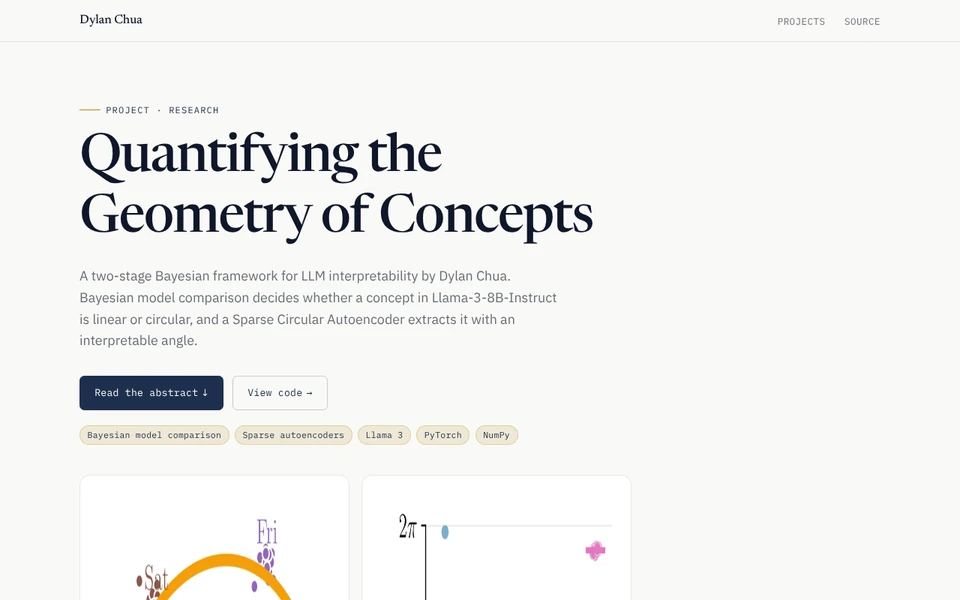
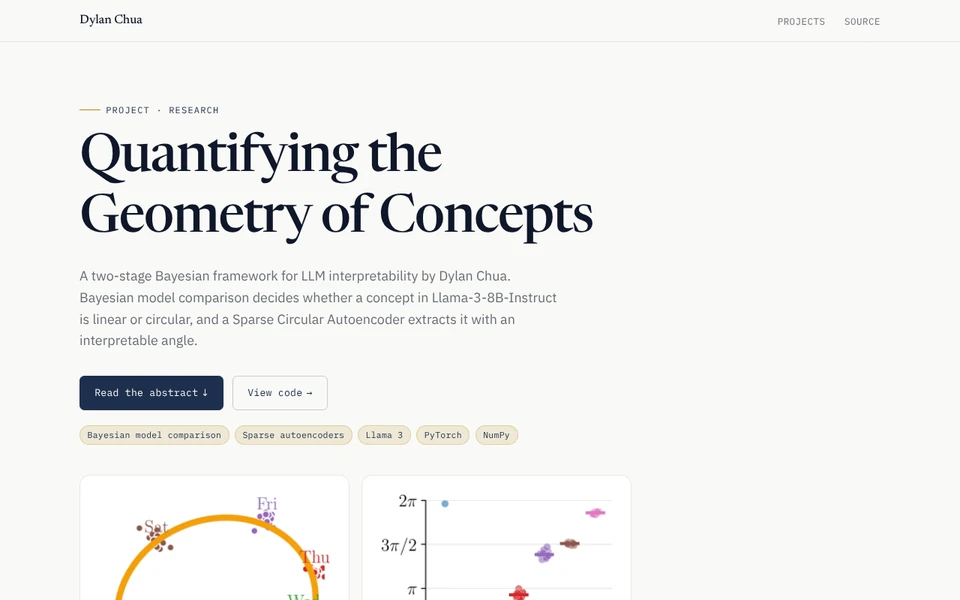
Update project kit to v1.2 and add the section bar
Apply kit v1.1 (sticky in-page section bar + project-kit.js) and v1.2
(images keep their aspect ratio on phones; hero figure top margin).
project-kit.css and project-kit.js match the shared kit's hashes. The bar
links seven sections: Abstract, Method, Setup, Results, SCAE angles,
Conclusion and Citation. Regenerate gallery-cover.webp.

Claude-Session: https://claude.ai/code/session_0177LZe8kzwKYHQ6czokbSiz

diff --git a/docs/project-kit.css b/docs/project-kit.css
@@ -1,5 +1,5 @@
 /*
- * project-kit.css — v1
+ * project-kit.css — v1.2
  * Shared style for every project page under projects.thedylone.com/<repo>/.
  * Copy this file verbatim into each project; do not edit it per project.
  * Page-specific styles go in a separate file loaded AFTER this one and must
@@ -65,6 +65,7 @@ p + p { margin-top: 1rem; }
 a { color: var(--color-navy); text-decoration-color: var(--color-hairline-strong); text-underline-offset: 0.2em; }
 a:hover { color: var(--color-gold); text-decoration-color: var(--color-gold); }
 img, svg, canvas, video { max-width: 100%; display: block; }
+img, video { height: auto; }
 ul, ol { margin: 0; padding-left: 1.25rem; }
 li + li { margin-top: 0.35rem; }
 ::selection { background: var(--color-gold-soft); color: var(--color-navy-strong); }
@@ -149,7 +150,7 @@ li + li { margin-top: 0.35rem; }
 .pk-actions { display: flex; flex-wrap: wrap; gap: 0.75rem; margin-top: 2rem; }
 .pk-tags { display: flex; flex-wrap: wrap; gap: 0.45rem; margin-top: 1.25rem; padding: 0; list-style: none; }
 .pk-tags li + li { margin: 0; }
-.pk-hero-media { margin-top: 2.5rem; }
+.pk-hero-media, .pk-figure.pk-hero-media { margin-top: 2.5rem; }
 
 /* ---------- Section headings ---------- */
 .pk-h2 { font-size: clamp(1.8rem, 3.2vw, 2.4rem); letter-spacing: -0.02em; }
@@ -267,4 +268,66 @@ pre {
     .pk-header-inner { gap: 0.75rem; }
     .pk-nav { gap: 0.9rem; }
     .pk-brand { font-size: 0.98rem; }
+}
+
+/* ---------- Section bar (v1.1, optional) ----------
+ * For pages with 4+ sections only; at most 7 links. Place directly after the
+ * hero, inside <main>. It sits in the flow under the hero, then sticks below
+ * the header. project-kit.js highlights the current section.
+ */
+:root { --subnav-height: 2.75rem; }
+html:has(.pk-subnav) { scroll-padding-top: calc(var(--header-height) + var(--subnav-height) + 1rem); }
+.pk-subnav {
+    position: sticky;
+    top: var(--header-height);
+    z-index: 90;
+    height: var(--subnav-height);
+    margin-top: 2.5rem;
+    background: rgba(249, 249, 246, 0.82);
+    backdrop-filter: blur(14px) saturate(1.1);
+    -webkit-backdrop-filter: blur(14px) saturate(1.1);
+    border-block: 1px solid var(--color-hairline);
+}
+.pk-subnav-inner {
+    height: 100%;
+    max-width: var(--content-width);
+    margin-inline: auto;
+    padding-inline: var(--gutter);
+}
+.pk-subnav ul {
+    height: 100%;
+    display: flex;
+    align-items: center;
+    gap: clamp(1rem, 2.5vw, 2rem);
+    list-style: none;
+    margin: 0;
+    padding: 0;
+    overflow-x: auto;
+    scrollbar-width: none;
+}
+.pk-subnav ul::-webkit-scrollbar { display: none; }
+.pk-subnav li { flex: none; }
+.pk-subnav li + li { margin: 0; }
+.pk-subnav a {
+    display: block;
+    font-family: var(--font-mono);
+    font-size: 0.72rem;
+    letter-spacing: 0.06em;
+    text-transform: uppercase;
+    text-decoration: none;
+    white-space: nowrap;
+    color: var(--color-text-faint);
+    padding-block: 0.2rem;
+    border-bottom: 1px solid transparent;
+    transition: color 0.15s var(--ease), border-color 0.15s var(--ease);
+}
+.pk-subnav a:hover, .pk-subnav a:focus-visible { color: var(--color-navy); }
+.pk-subnav a[aria-current="true"] { color: var(--color-navy); border-bottom-color: var(--color-gold); }
+@media (max-width: 640px) {
+    .pk-subnav-inner { padding-inline: 0; }
+    .pk-subnav ul {
+        padding-inline: var(--gutter);
+        -webkit-mask-image: linear-gradient(90deg, transparent, #000 1rem, #000 calc(100% - 1.5rem), transparent);
+        mask-image: linear-gradient(90deg, transparent, #000 1rem, #000 calc(100% - 1.5rem), transparent);
+    }
 }

diff --git a/docs/project-kit.js b/docs/project-kit.js
@@ -1,0 +1,60 @@
+/*
+ * project-kit.js — v1.1
+ * Highlights the current section in .pk-subnav. Copy verbatim; load with
+ * <script src="./project-kit.js" defer></script>. No dependencies.
+ */
+(function () {
+  var nav = document.querySelector(".pk-subnav");
+  if (!nav) return;
+  var list = nav.querySelector("ul");
+  var links = Array.prototype.slice.call(nav.querySelectorAll('a[href^="#"]'));
+  var items = links
+    .map(function (a) {
+      return { link: a, section: document.getElementById(decodeURIComponent(a.getAttribute("href").slice(1))) };
+    })
+    .filter(function (it) { return it.section; });
+  if (!items.length) return;
+
+  var current = null;
+  var ticking = false;
+
+  function setActive(item) {
+    if (item === current) return;
+    if (current) current.link.removeAttribute("aria-current");
+    current = item;
+    if (!item) return;
+    item.link.setAttribute("aria-current", "true");
+    // Keep the active link visible inside the bar without scrolling the page.
+    var l = item.link.offsetLeft;
+    var r = l + item.link.offsetWidth;
+    if (l < list.scrollLeft + 16) list.scrollLeft = l - 16;
+    else if (r > list.scrollLeft + list.clientWidth - 24) list.scrollLeft = r - list.clientWidth + 24;
+  }
+
+  function update() {
+    ticking = false;
+    var line = nav.getBoundingClientRect().bottom + Math.max(48, window.innerHeight * 0.15);
+    var active = null;
+    for (var i = 0; i < items.length; i++) {
+      if (items[i].section.getBoundingClientRect().top <= line) active = items[i];
+    }
+    var atBottom = window.innerHeight + window.scrollY >= document.documentElement.scrollHeight - 2;
+    if (atBottom) active = items[items.length - 1];
+    setActive(active);
+  }
+
+  function onScroll() {
+    if (!ticking) {
+      ticking = true;
+      requestAnimationFrame(update);
+    }
+  }
+
+  items.forEach(function (it) {
+    it.link.addEventListener("click", function () { setActive(it); });
+  });
+
+  window.addEventListener("scroll", onScroll, { passive: true });
+  window.addEventListener("resize", onScroll);
+  update();
+})();

diff --git a/docs/index.html b/docs/index.html
@@ -16,6 +16,7 @@
   <link rel="preconnect" href="https://fonts.gstatic.com" crossorigin />
   <link href="https://fonts.googleapis.com/css2?family=Newsreader:ital,opsz,wght@0,6..72,400;0,6..72,500;1,6..72,400&family=IBM+Plex+Sans:wght@400;500;600&family=IBM+Plex+Mono:wght@400;500&display=swap" rel="stylesheet" />
   <link rel="stylesheet" href="./project-kit.css" />
+  <script src="./project-kit.js" defer></script>
   <!-- page-specific styles, AFTER the kit -->
   <!-- KaTeX 0.16.11, self-hosted (MIT, see assets/katex/LICENSE) -->
   <link rel="stylesheet" href="./assets/katex/katex.min.css" />
@@ -63,6 +64,20 @@
         </figure>
       </div>
     </section>
+
+    <nav class="pk-subnav" aria-label="On this page">
+      <div class="pk-subnav-inner">
+        <ul>
+          <li><a href="#abstract">Abstract</a></li>
+          <li><a href="#method">Method</a></li>
+          <li><a href="#setup">Setup</a></li>
+          <li><a href="#results">Results</a></li>
+          <li><a href="#scae">SCAE angles</a></li>
+          <li><a href="#conclusion">Conclusion</a></li>
+          <li><a href="#citation">Citation</a></li>
+        </ul>
+      </div>
+    </nav>
 
     <!-- ================= 01 ABSTRACT ================= -->
     <section id="abstract" class="pk-section">
